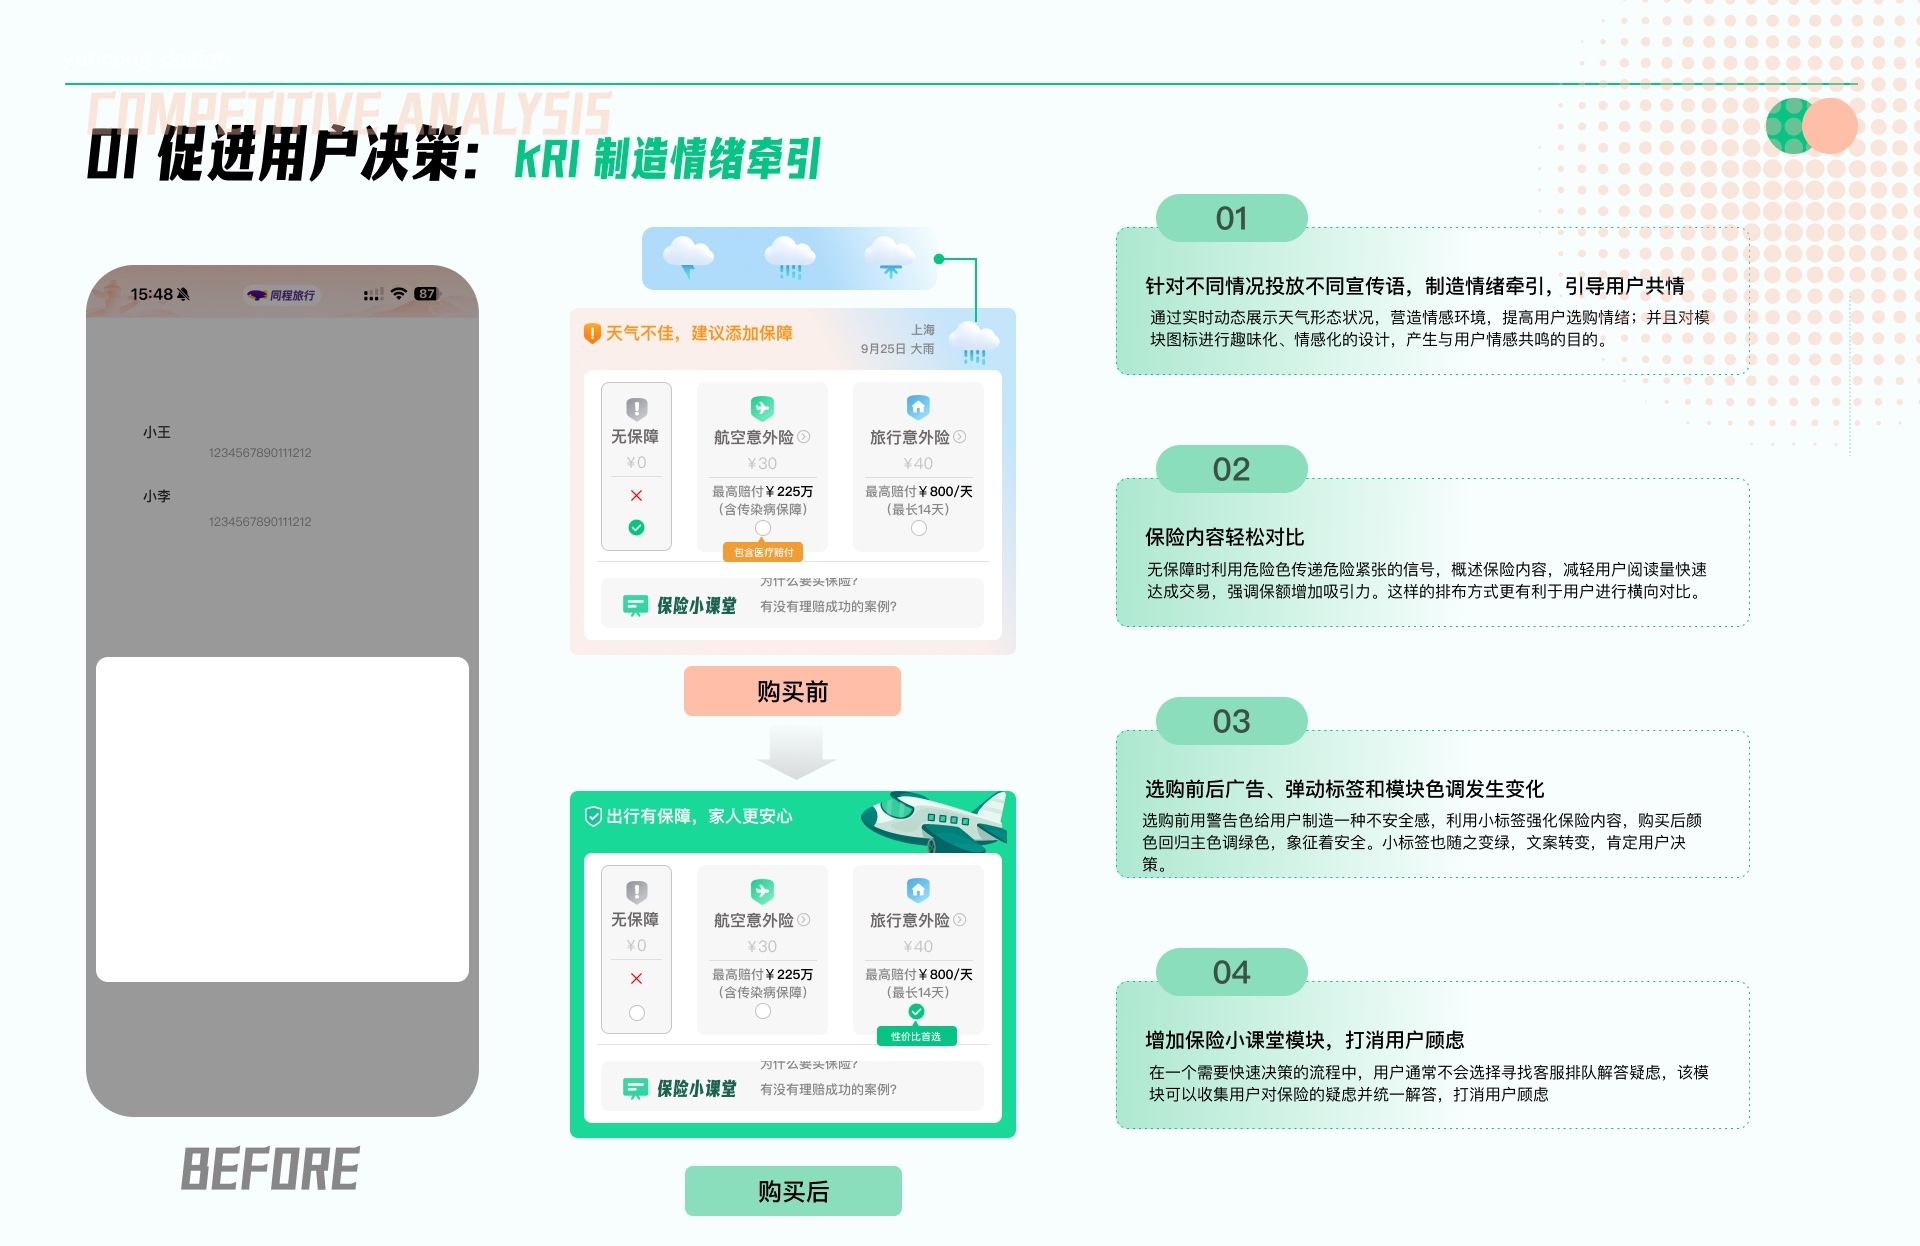
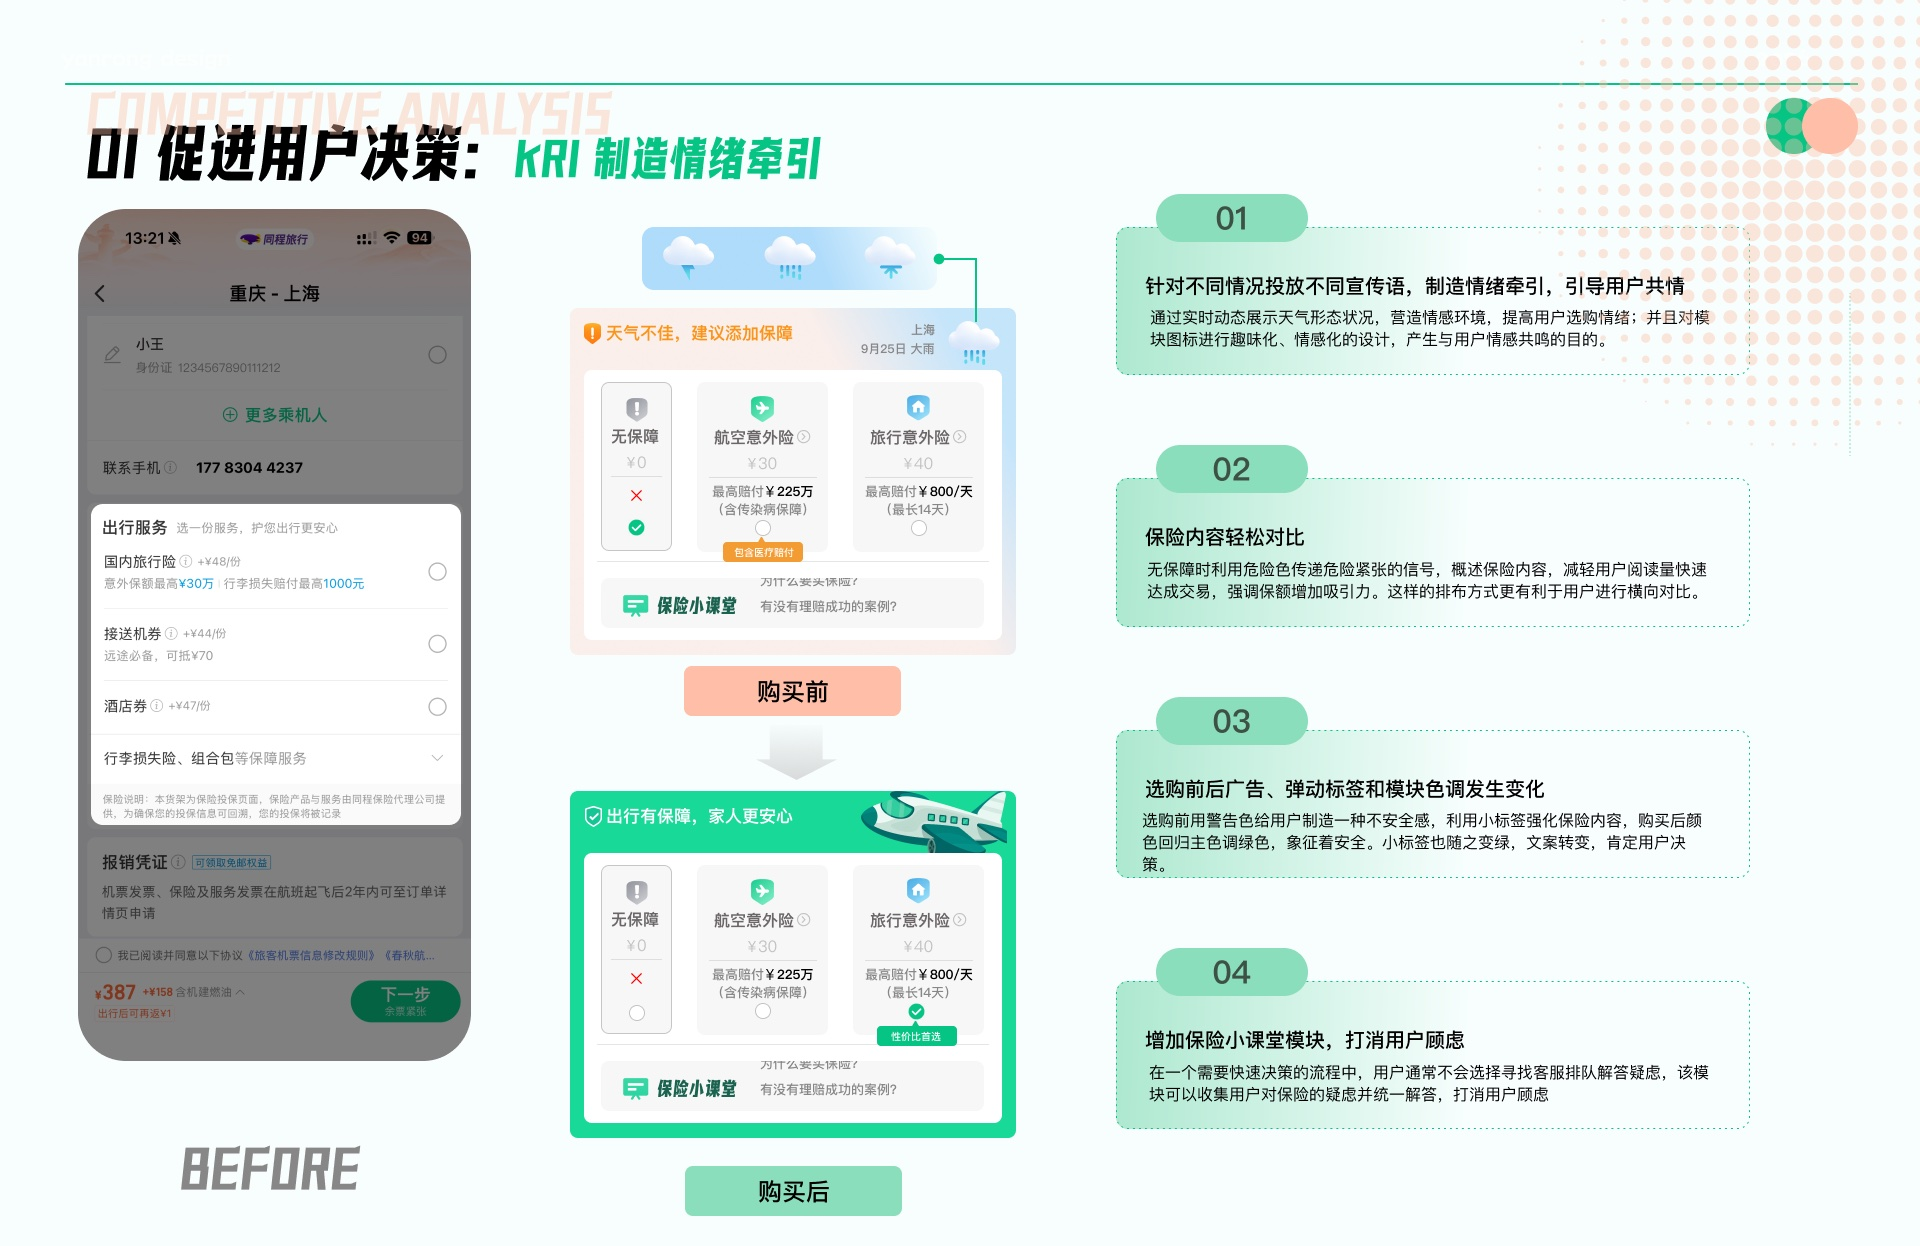
同程旅行: swap in the updated 2.9 slide (KR1)

Changed region(s): [[0.0312, 0.1525, 0.25, 0.9149]]

diff --git a/project-tongcheng.html b/project-tongcheng.html
@@ -59,7 +59,7 @@
       <img src="src/projects/tongcheng/06.jpg?v=1" alt="用户旅程图" width="1920" height="1080" loading="lazy" decoding="async" />
       <img src="src/projects/tongcheng/07.jpg?v=1" alt="竞品分析" width="1920" height="1080" loading="lazy" decoding="async" />
       <img src="src/projects/tongcheng/08.jpg?v=1" alt="设计策略" width="1920" height="1080" loading="lazy" decoding="async" />
-      <img src="src/projects/tongcheng/09.jpg?v=1" alt="促进用户决策 · KR1 制造情绪牵引" width="1920" height="1246" loading="lazy" decoding="async" />
+      <img src="src/projects/tongcheng/09.jpg?v=2" alt="促进用户决策 · KR1 制造情绪牵引" width="1920" height="1246" loading="lazy" decoding="async" />
       <img src="src/projects/tongcheng/10.jpg?v=1" alt="促进用户决策 · KR2 警告色的使用" width="1920" height="1246" loading="lazy" decoding="async" />
       <img src="src/projects/tongcheng/11.jpg?v=1" alt="促进用户决策 · KR3 文案优化" width="1920" height="1246" loading="lazy" decoding="async" />
       <img src="src/projects/tongcheng/12.jpg?v=1" alt="促进用户决策 · KR3 引导流程可视化" width="1920" height="1246" loading="lazy" decoding="async" />
